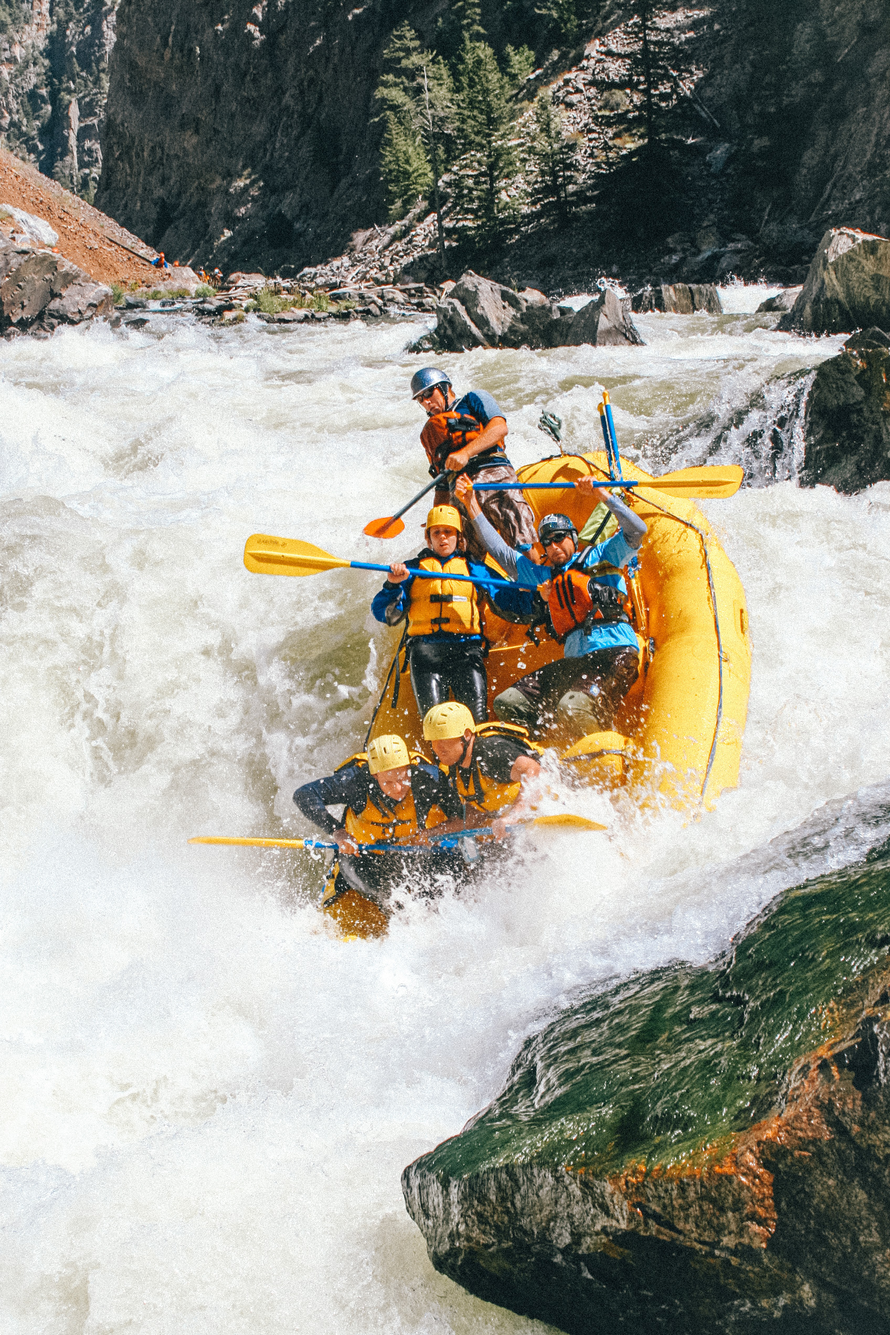
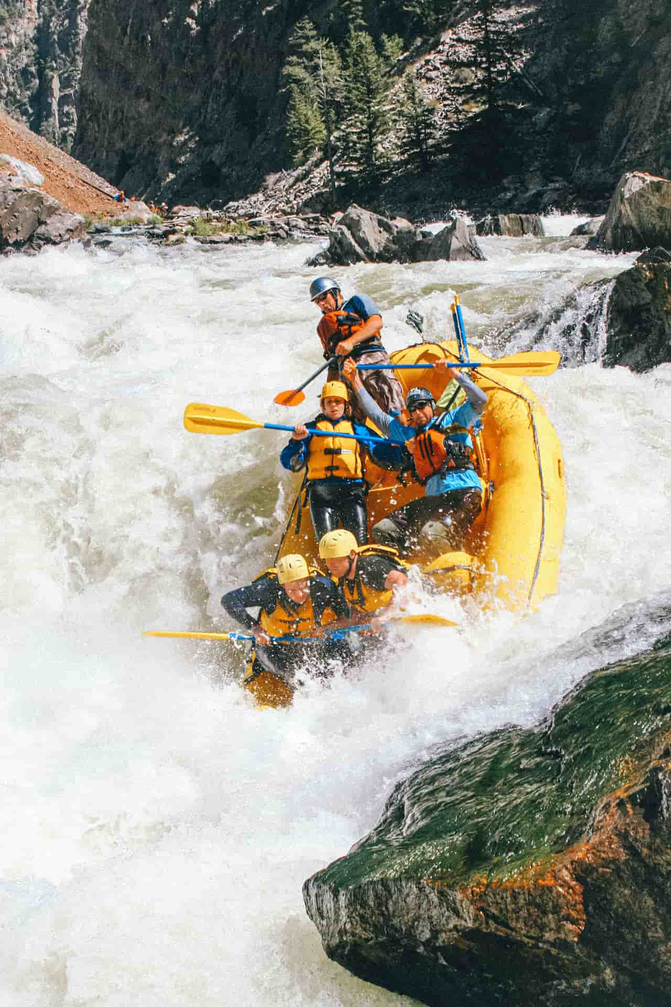
atualizando

diff --git a/wwr/sobre.html b/wwr/sobre.html
@@ -7,7 +7,7 @@
     <meta name="author" content="aleksandro R. Monteiro">
     <meta name="description"
       content="minha pagina Rafting da semana tres, Wdd130, a pagina tem finalidade de avaliação do conhecimento.">
-    <title>Pagina de Rafting</title>
+    <title>Sobre Nós Aleks`s Advetures Rafting</title>
 </head>
 
 <body>
